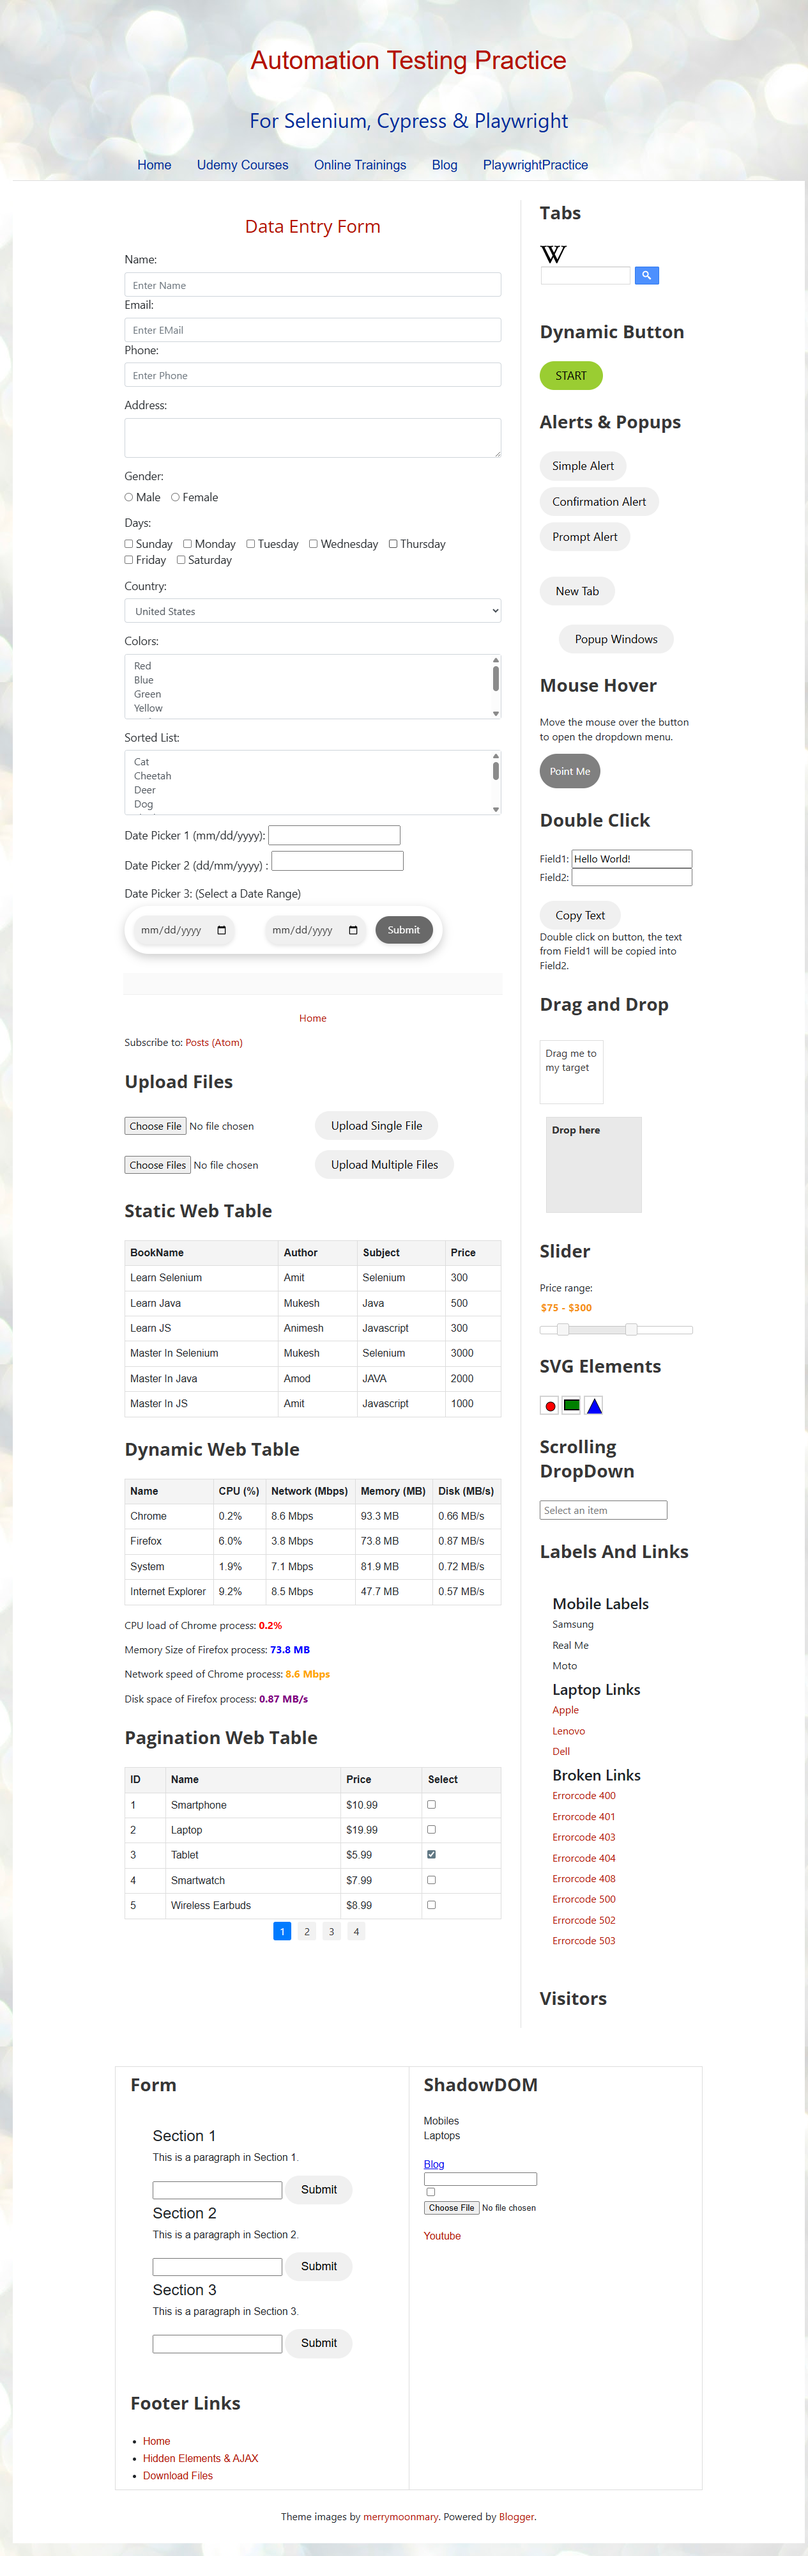
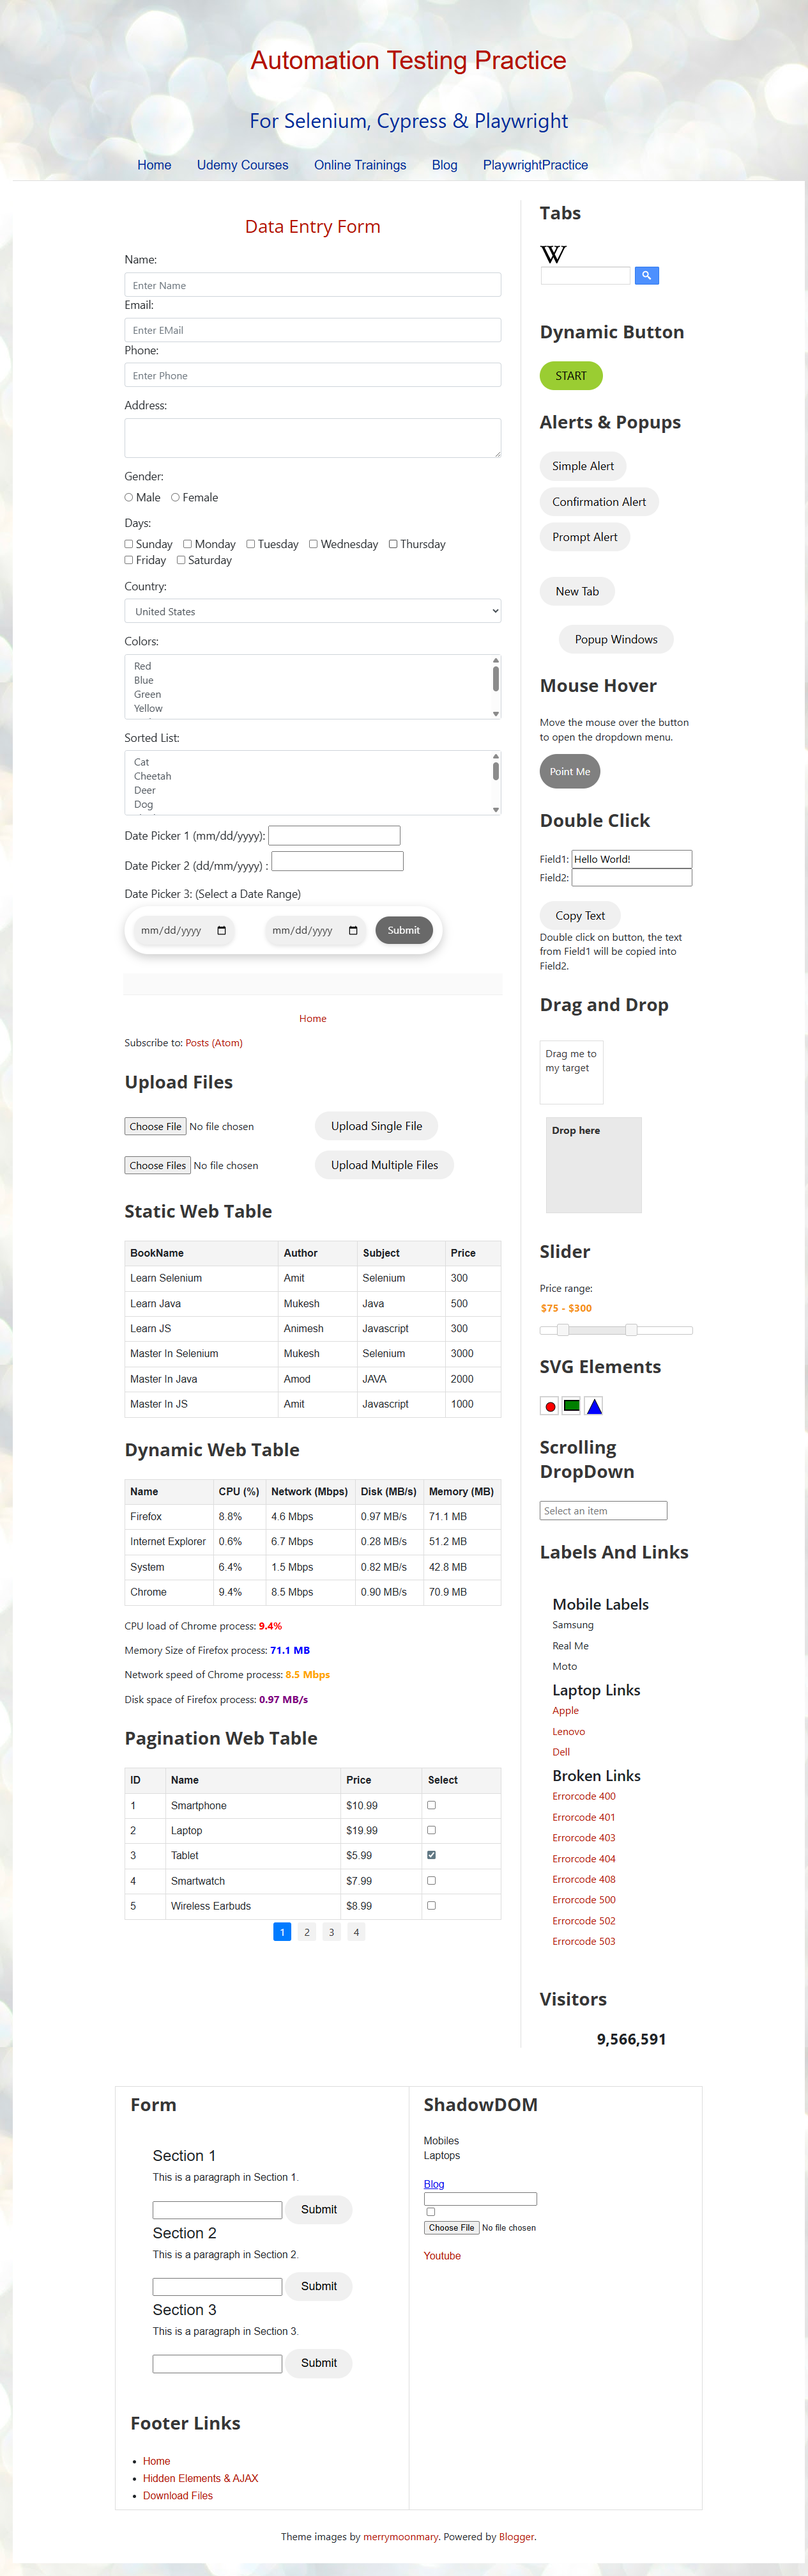
Fix focused test Jenkins

diff --git a/tests/FaceBook.spec.js b/tests/FaceBook.spec.js
@@ -1,46 +1,36 @@
-import{test, expect} from '@playwright/test';
+import { test, expect } from '@playwright/test';
 
 const Registration_URL = 'https://www.hyrtutorials.com/p/basic-controls.html';
 
-const testUser ={
-    firstName: "Anand",
-    lastName: "Kumar",
-    gender: "female",
-    email:"anandkumar12@gmail.com",
-    password:"lenovo@987",
-
+const testUser = {
+    firstName: 'Anand',
+    lastName: 'Kumar',
+    gender: 'female',
+    email: 'anandkumar12@gmail.com',
+    password: 'lenovo@987',
 };
 
-test.describe('User Registration', ()=>{
-    test('should register with validate input details', async({page}) =>{
-
+test.describe('User Registration', () => {
+    test('should register with validate input details', async ({ page }) => {
         await page.goto(Registration_URL);
         await expect(page).toHaveURL(Registration_URL);
-
-        // field the mandatory details
 
         await page.locator('#firstName').fill(testUser.firstName);
         await page.locator('#lastName').fill(testUser.lastName);
         await page.locator('#femalerb').check();
-
-        await page.waitForTimeout(5000);
-        
-        // checkBox
+        await expect(page.locator('#femalerb')).toBeChecked();
 
         const checkBox = page.locator('#englishchbx');
-
         await checkBox.check();
         await expect(checkBox).toBeChecked();
 
-        // Enter email id
         await page.locator('#email').fill(testUser.email);
-        await page.waitForTimeout(5000);
         await page.locator('#password').fill(testUser.password);
 
-        await page.locator('#registerbtn').click();
+        const registerButton = page.locator('#registerbtn');
+        await expect(registerButton).toBeEnabled();
+        await registerButton.click();
 
-        await page.waitForTimeout(5000);
-
-        await expect(page.getByText(('Registration is Successful'))).toBeVisible();
-    })
-})
+        await expect(page.getByText('Registration is Successful')).toBeVisible();
+    });
+});

diff --git a/tests/AlertsFrames.spec.js b/tests/AlertsFrames.spec.js
@@ -1,32 +1,25 @@
-import{test, expect} from '@playwright/test';
+import { test, expect } from '@playwright/test';
 
-test('alert handle frames',async({page}) =>{
+test('alert handle frames', async ({ page }) => {
+  await page.goto('https://www.hyrtutorials.com/p/alertsdemo.html');
 
-    await page.goto('https://www.hyrtutorials.com/p/alertsdemo.html');
+  page.once('dialog', async (dialog) => {
+    expect(dialog.message()).toContain('I am an alert box!');
+    await dialog.dismiss();
+  });
+  await page.locator('#alertBox').click();
 
-    //alert box
+  page.once('dialog', async (dialog) => {
+    expect(dialog.message()).toContain('Press a button!');
+    await dialog.dismiss();
+  });
+  await page.locator('#confirmBox').click();
 
-    page.on('dialog', async dialog=>{
-        if(dialog.type() ==='alert'){
-            expect(dialog.message()).toContain('I am an alert box!');
-            await dialog.dismiss();
-        }
-//confirm box
-        else if(dialog.type() === 'confirm'){
-            expect(dialog.message()).toContain('Press a button!');
-            await dialog.dismiss();
-        }
+  page.once('dialog', async (dialog) => {
+    expect(dialog.message()).toContain('Please enter your name:');
+    await dialog.accept('Anand');
+  });
+  await page.locator('#promptBox').click();
 
-//promptBox
-        else if(dialog.type() === 'prompt'){
-            expect(dialog.message()).toContain('Please enter your name:');
-            await dialog.accept('Anand');
-           // await dialog.dismiss();
-        }
-    })
-    await page.click('#alertBox');
-    await page.click('#confirmBox');
-
-    await page.click('#promptBox');
-    await page.waitForTimeout(5000);
-})
+  await page.waitForTimeout(1000);
+});

diff --git a/pages/CartPage.js b/pages/CartPage.js
@@ -1,21 +1,34 @@
 exports.CartPage = class CartPage {
 
     constructor(page){
-
         this.page = page;
-        this.noOfProducts = '//tbody[@id="tbodyid"]/tr/td[2]'
-
+        this.noOfProducts = '#tbodyid tr td:nth-child(2)';
     }
 
-    async checkProductInCart(productName){
-        const productInCart = await this.page.$$(this.noOfProducts);
-        for (const product of productInCart) {
-            const text = ((await product.textContent()) || '').replace(/\s+/g, ' ').trim();
-            console.log(text);
-            if (productName.trim() === text) {
-                return true;
+    async checkProductInCart(productName) {
+        const expectedName = (productName || '').trim().toLowerCase();
+        const rows = this.page.locator('#tbodyid tr');
+
+        await rows.first().waitFor({ state: 'visible', timeout: 15000 }).catch(() => {});
+
+        for (let attempt = 0; attempt < 20; attempt++) {
+            const count = await rows.count();
+
+            for (let i = 0; i < count; i++) {
+                const text = ((await rows.nth(i).textContent()) || '').replace(/\s+/g, ' ').trim().toLowerCase();
+                console.log('Cart item:', text);
+                if (text.includes(expectedName)) {
+                    return true;
+                }
+            }
+
+            if (count > 0) {
+                await this.page.waitForTimeout(500);
+            } else {
+                await this.page.waitForTimeout(500);
             }
         }
+
         return false;
     }
 }

diff --git a/tests/RadioButton.spec.js b/tests/RadioButton.spec.js
@@ -1,41 +1,22 @@
 import { test, expect } from "allure-playwright";
-import { stat } from "node:fs";
 
-test('Handle Radio button ', async({page}) =>{
-
+test('Handle radio button and checkbox', async ({ page }) => {
     await page.goto('https://www.hyrtutorials.com/p/basic-controls.html');
 
-    const firstName = await page.locator('#firstName');
+    const firstName = page.locator('#firstName');
     await firstName.fill('Anand');
-    await page.waitForTimeout(5000);
 
-    // Enter Last Name
-
-    const lastName = await page.locator('#lastName');
+    const lastName = page.locator('#lastName');
     await lastName.fill('Kumar');
-    await page.waitForTimeout(5000);
 
-    // check radio button Gender
-    const feMale = await page.locator('#femalerb');
-    await feMale.click();
-    await page.waitForTimeout(5000);
-    console.log('feMale is passed')
+    const femaleRadio = page.locator('#femalerb');
+    await femaleRadio.check();
+    await expect(femaleRadio).toBeChecked();
 
-    // check box
-    const checkBox = await page.locator('#englishchbx')
-    
-    // check the checkBox
+    const checkBox = page.locator('#englishchbx');
     await checkBox.check();
-
-    //verify the checkbox is checked
     await expect(checkBox).toBeChecked();
 
-    //verify usig boolean
     const status = await checkBox.isChecked();
     expect(status).toBeTruthy();
-
-    await page.waitForTimeout(5000);
-
-    console.log('checkbox is checked sucessful')
-
-})
+});

diff --git a/tests/HandleInnerFrames.spec.js b/tests/HandleInnerFrames.spec.js
@@ -1,15 +1,16 @@
-const{test, expect} = require ('@playwright/test');
+const { test, expect } = require('@playwright/test');
 
-test('Handle inner farmes', async({page}) => {
+test('Handle inner farmes', async ({ page }) => {
+  await page.goto('https://ui.vision/demo/webtest/frames/');
 
-    await page.goto('https://ui.vision/demo/webtest/frames/');
+  const frames3 = page.frame({ url: /frame_3/ });
+  expect(frames3).not.toBeNull();
 
-    const frames3 = await page.frame({url:'https://ui.vision/demo/webtest/frames/frame_3'})
-   // frames3.locator("[name='mytext3']").fill('Welcome to anand');
+  const childframes = frames3.childFrames();
+  expect(childframes.length).toBeGreaterThan(0);
 
-   //nested frames
-    const childframes = await frames3.childFrames();
-     await childframes[0].getByRole('radio', { name: 'Hi, I am the UI.Vision IDE' }).check();
+  const bodyText = await frames3.locator('body').textContent();
+  expect(bodyText.length).toBeGreaterThan(0);
 
-    await page.waitForTimeout(5000);
-})
+  await page.waitForTimeout(1000);
+});

diff --git a/tests/HooksSteps.spec.js b/tests/HooksSteps.spec.js
@@ -4,18 +4,23 @@ let page;
 
 test.beforeEach(async ({ browser }) => {
   page = await browser.newPage();
-  await page.goto('https://www.demoblaze.com/index.html');
+  await page.goto('https://www.demoblaze.com/index.html', { waitUntil: 'domcontentloaded' });
 
   await page.locator('#login2').click();
   await page.locator('#loginusername').fill('pavanol');
   await page.locator('#loginpassword').fill('test@123');
   await page.getByRole('button', { name: 'Log in' }).click();
+
+  await page.locator('#logout2').waitFor({ state: 'visible', timeout: 20000 });
   await expect(page.locator('#logout2')).toBeVisible();
 });
 
 test.afterEach(async () => {
-  await page.locator('#logout2').click();
-  await expect(page.locator('#login2')).toBeVisible();
+  const logout = page.locator('#logout2');
+  if (await logout.isVisible().catch(() => false)) {
+    await logout.click();
+    await expect(page.locator('#login2')).toBeVisible();
+  }
 });
 
 test('Home page Test', async () => {

diff --git a/tests/Steplogin.spec.js b/tests/Steplogin.spec.js
@@ -5,23 +5,18 @@ import { CartPage } from '../pages/CartPage';
 
 test('Verify the test login', async({page}) =>{
 
-    //create object
     const loged = new LoginPage(page);
     await loged.gotoLoginPage();
     await loged.login('pavanol', 'test@123');
-    await page.waitForTimeout(3000);
 
-
-    // HomePage
     const home = new HomePage(page);
-    await home.addProductToCart("Nexus 6");
-    await page.waitForTimeout(3000);
+    await home.addProductToCart('Nexus 6');
     await home.gotoAddCart();
+    await page.waitForURL(/cart\.html/, { timeout: 15000 });
 
-    // cart
-  const cart = new CartPage(page);
-  await page.waitForTimeout(3000);
-  const status = await cart.checkProductInCart('Nexus 6');
-  expect(status).toBe(true);
+    const cart = new CartPage(page);
+    await expect(page.locator('#tbodyid')).toBeVisible();
+    const status = await cart.checkProductInCart('Nexus 6');
+    expect(status).toBe(true);
 
 })

diff --git a/tests/Screenshots.spec.js b/tests/Screenshots.spec.js
@@ -1,14 +1,14 @@
-import{test, expect} from 'playwright/test';
+import { test, expect } from '@playwright/test';
 
-test('Launched OrangeHRM', async({page}) =>{
+test('Launched OrangeHRM', async ({ page }) => {
+  await page.goto('https://opensource-demo.orangehrmlive.com/web/index.php/auth/login');
 
-    await page.goto('https://opensource-demo.orangehrmlive.com/web/index.php/auth/login');
+  await page.getByPlaceholder('Username').fill('Admin');
+  await page.getByPlaceholder('Password').fill('admin123');
 
+  await page.getByRole('button', { name: 'Login' }).click();
 
-    await page.getByPlaceholder('Username').fill('Admin');
-    await page.getByPlaceholder('password').fill('admin123');
-
-    await page.locator("button[type='submit']").click();
-
-})
+  await expect(page).toHaveURL(/\/dashboard/);
+  await expect(page.getByRole('heading', { name: 'Dashboard' })).toBeVisible();
+});
 

diff --git a/tests/Trace.spec.js b/tests/Trace.spec.js
@@ -1,15 +1,13 @@
-import{test, expect} from 'playwright/test';
+import { test, expect } from '@playwright/test';
 
-test('Navigate the Orangehrm application', async({page}) =>{
-
+test('Navigate the Orangehrm application', async ({ page }) => {
     await page.goto('https://opensource-demo.orangehrmlive.com/web/index.php/auth/login');
 
     await page.getByPlaceholder('Username').fill('Admin');
     await page.getByPlaceholder('Password').fill('admin123');
 
-    await page.getByRole('button', {name:' Login '}).click();
+    await page.getByRole('button', { name: 'Login' }).click();
 
-  // dashboar is visible
-
-  await expect(page.getByRole('heading', { name: 'Dashboard' })).toBeVisible();
-}) 
+    await page.waitForURL(/\/dashboard/);
+    await expect(page.getByRole('link', { name: 'Dashboard' })).toBeVisible();
+});
